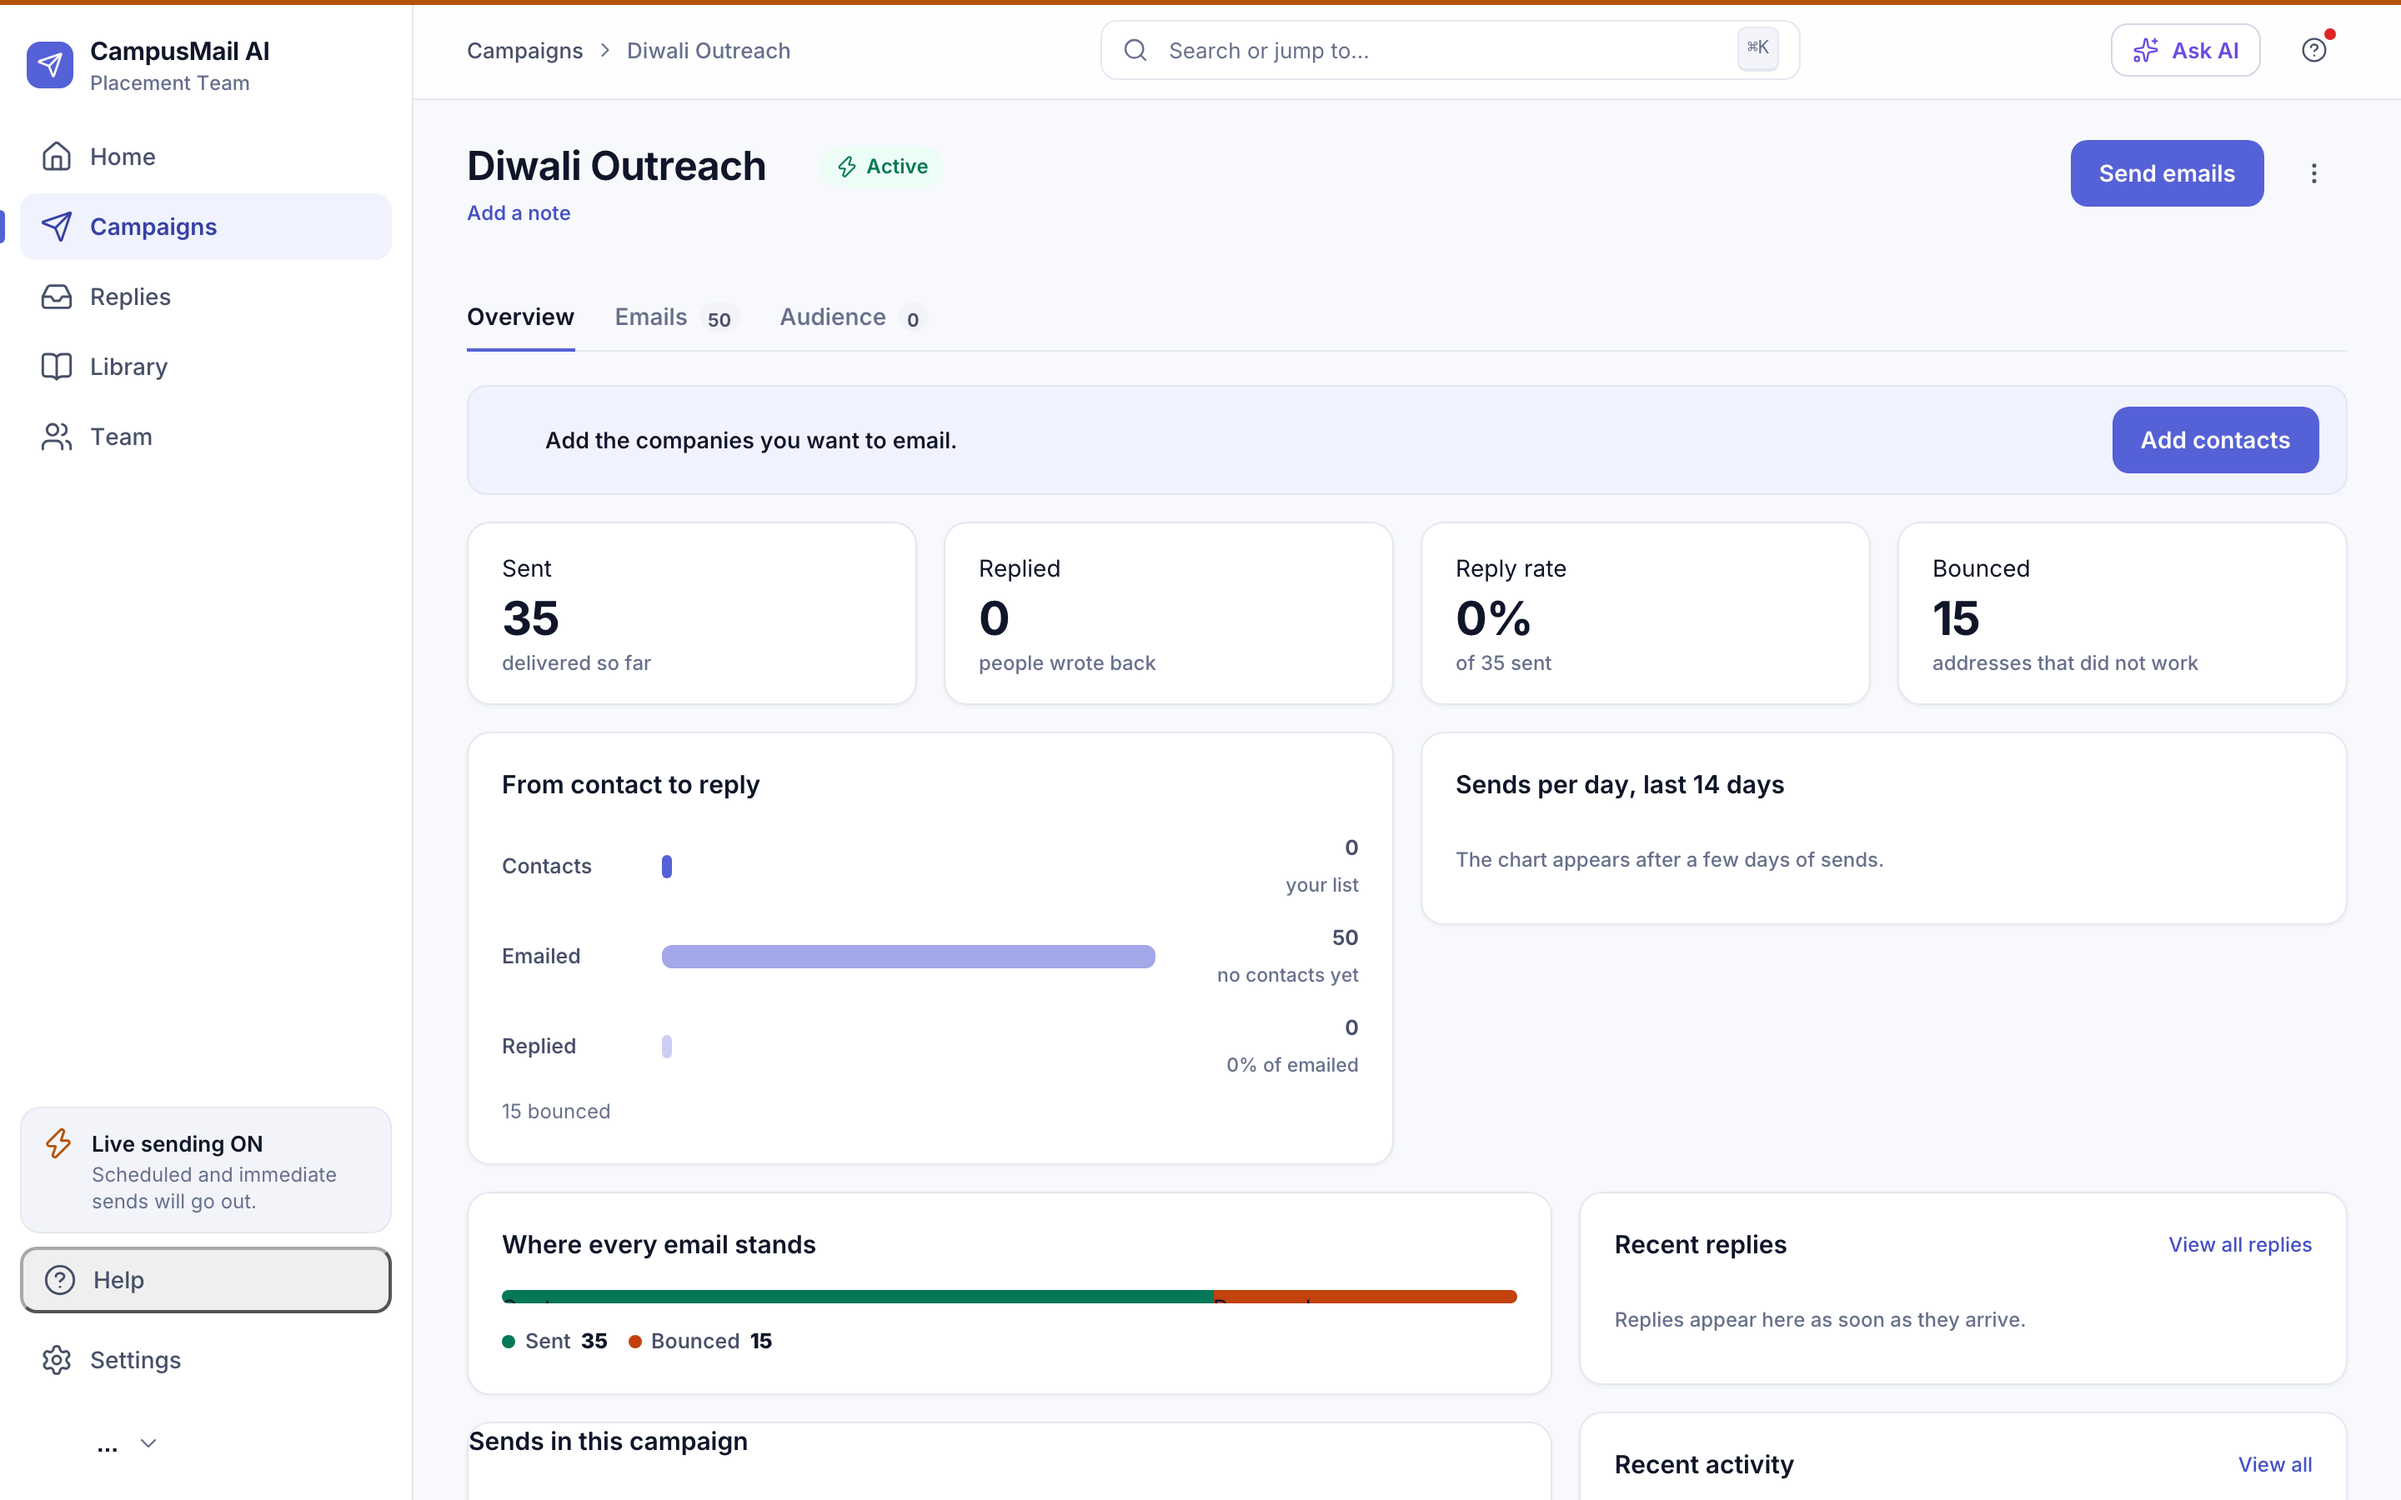
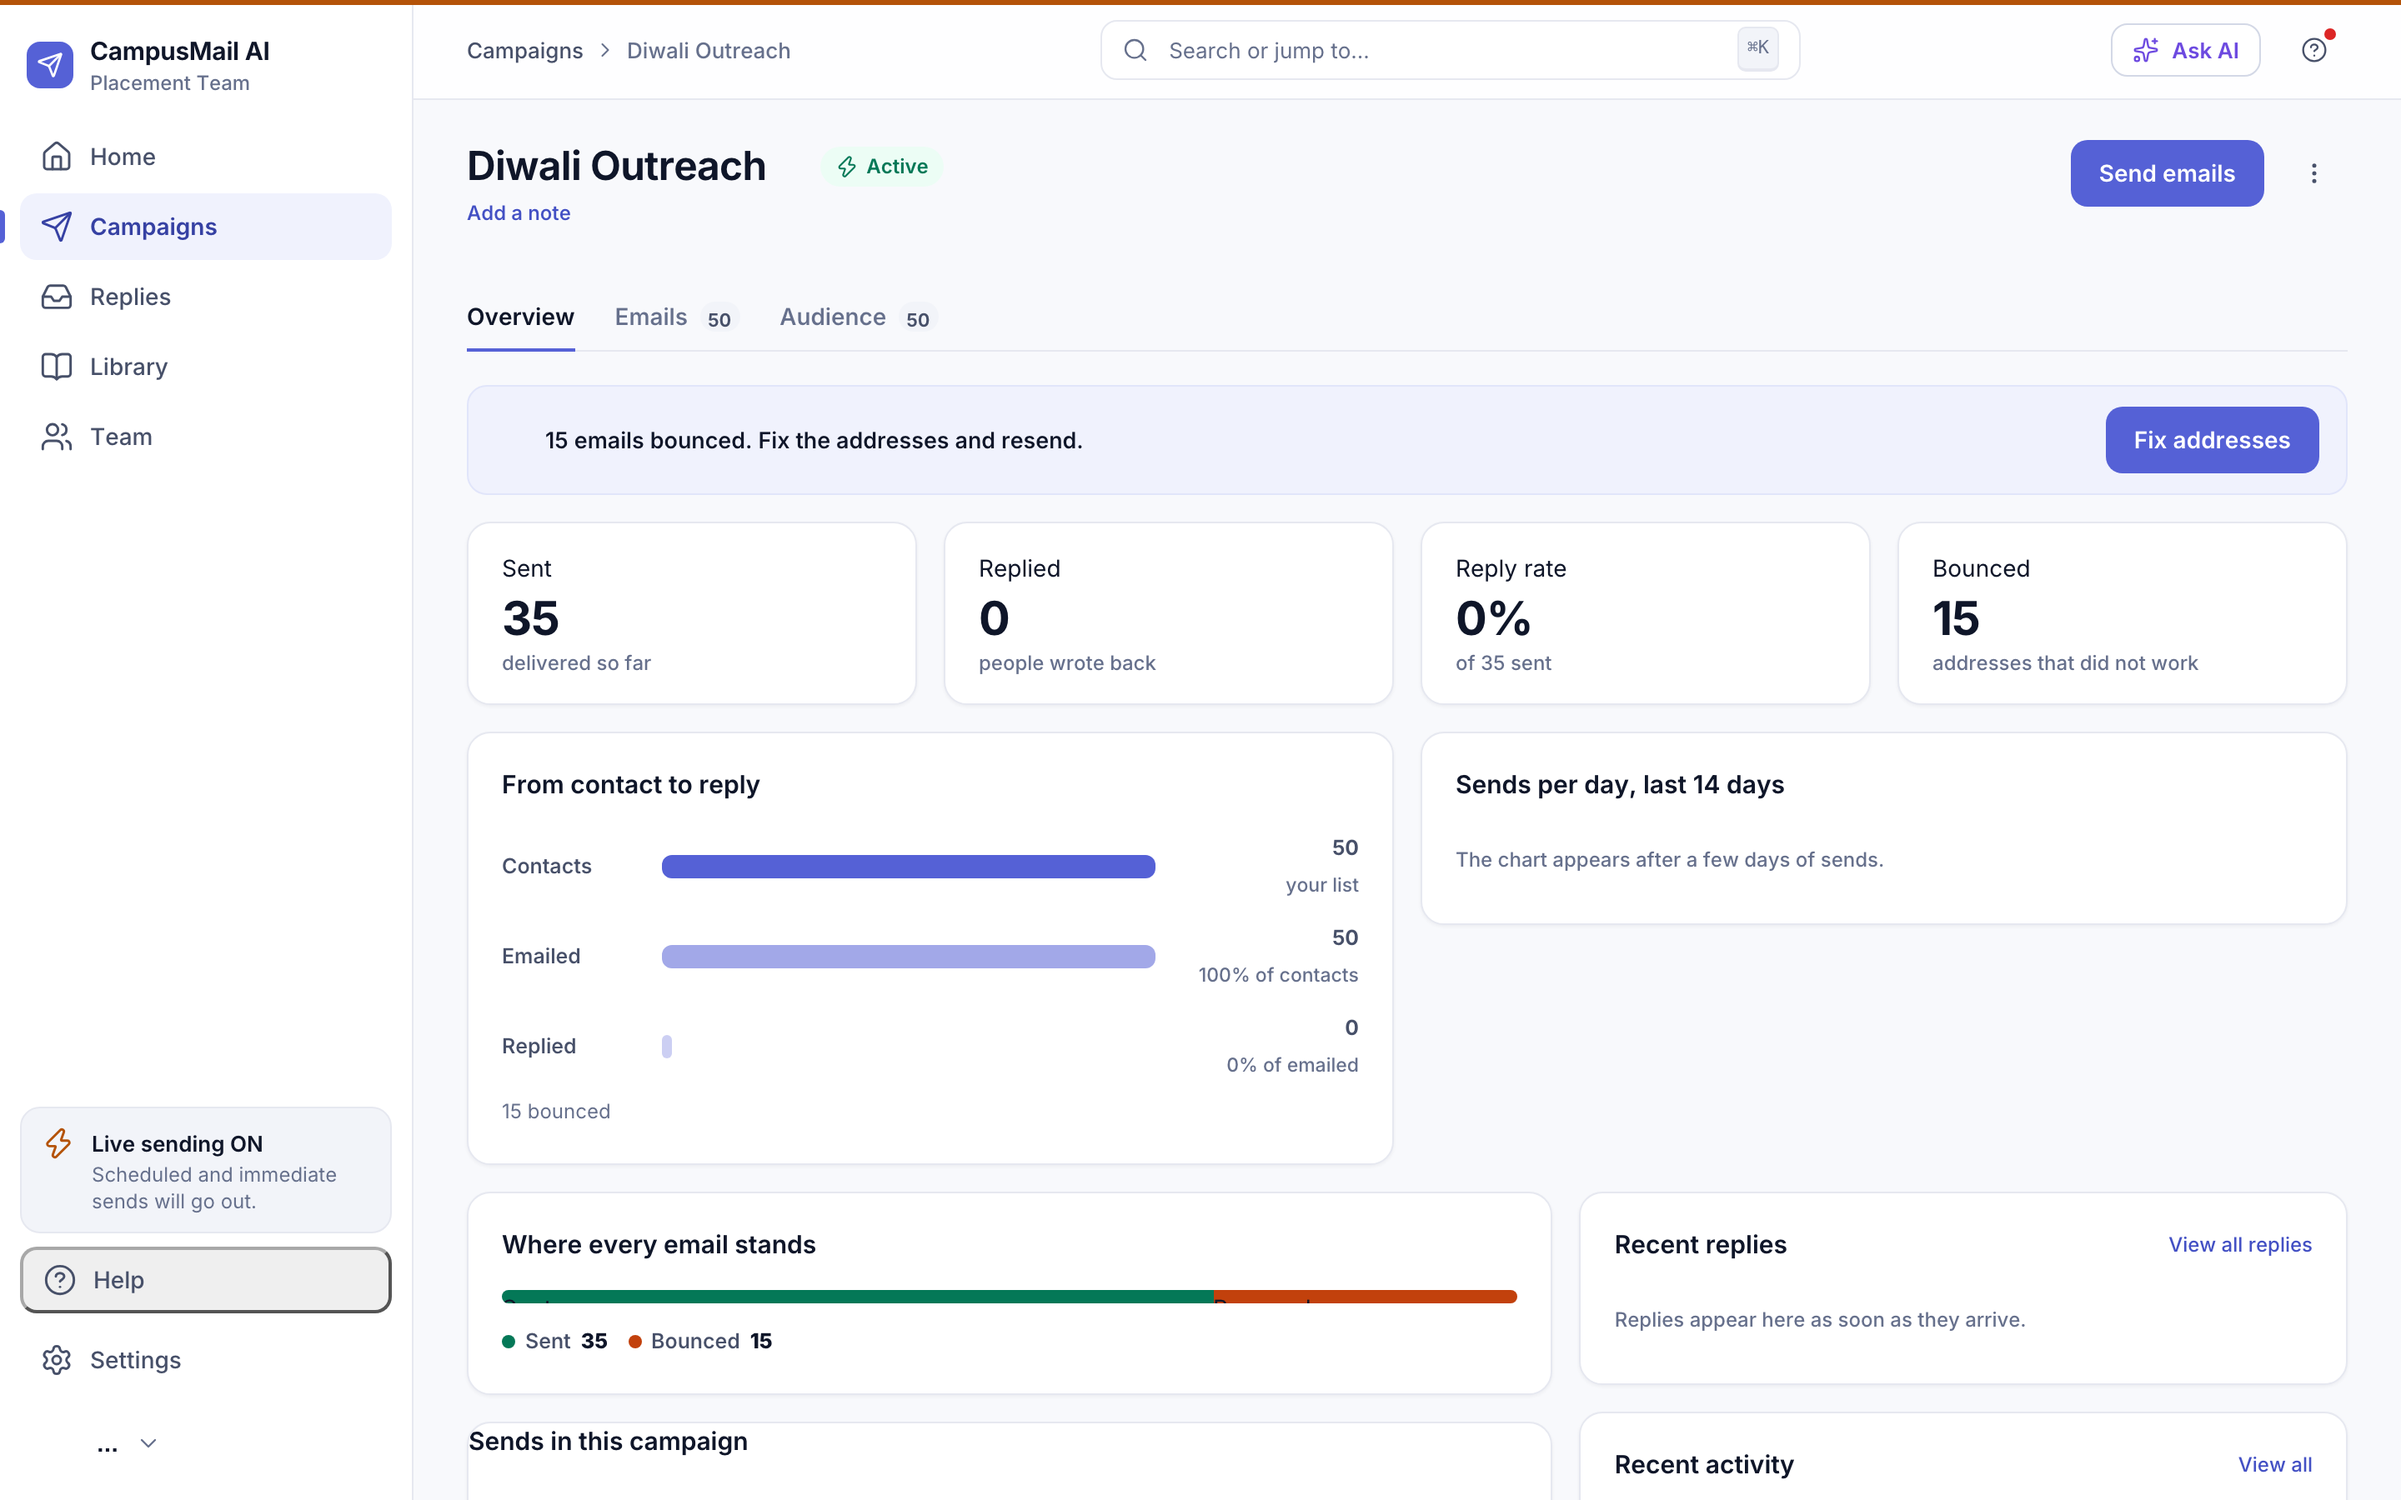
Hub: audience tab shows real recipients (count + table) when campaign has no linked lists
api_campaign_detail used the same sheet-join count as before with no
fallback, so a campaign that emailed people directly showed 'Audience 0'
while /api/home cards showed the true count. Add the same fallback
(distinct emailed contacts) and return the recipient rows; the audience
tab renders them with per-recipient status badges. Also refresh
screenshots for the updated hub and home.

diff --git a/static/js/pages/hub.js b/static/js/pages/hub.js
@@ -507,12 +507,34 @@ function renderAudience(panel) {
     { label: "Choose an existing list", icon: "library", action: chooseExisting },
   ]));
 
+  const recipients = data.recipients || [];
+  const showRecipients = !sheets.length && recipients.length > 0;
   const head = el("div", { class: "camp-toolbar" },
-    el("div", { class: "camp-note" }, "The contact lists in this campaign. Drop a CSV or Excel file anywhere here to upload."),
+    el("div", { class: "camp-note" }, showRecipients
+      ? "Everyone this campaign reached, with their current status."
+      : "The contact lists in this campaign. Drop a CSV or Excel file anywhere here to upload."),
     el("div", { class: "push" }, addBtn));
   panel.append(head);
 
-  if (!sheets.length) {
+  if (showRecipients) {
+    const table = el("table", { class: "table", "aria-label": "Recipients" },
+      el("thead", {}, el("tr", {},
+        el("th", {}, "Company"), el("th", {}, "HR name"), el("th", {}, "HR email"), el("th", {}, "Status"))),
+      el("tbody", {}));
+    for (const rc of recipients) {
+      const badge = rc.replied
+        ? el("span", { class: "badge replied" }, "Replied")
+        : rc.bounced
+          ? el("span", { class: "badge bounced" }, "Bounced")
+          : el("span", { class: "badge sent" }, "Sent");
+      table.tBodies[0].append(el("tr", {},
+        el("td", {}, rc.company || "—"),
+        el("td", {}, rc.hr_name || "—"),
+        el("td", {}, rc.hr_email || "—"),
+        el("td", {}, badge)));
+    }
+    panel.append(el("div", { class: "table-wrap" }, table));
+  } else if (!sheets.length) {
     panel.append(emptyState({
       icon: "contacts",
       title: "No contact lists yet.",

diff --git a/app.py b/app.py
@@ -1696,9 +1696,28 @@ def api_campaign_detail(cid):
     sheets = [dict(r) for r in c.execute("SELECT * FROM sheets WHERE campaign_id=? ORDER BY id DESC", (cid,)).fetchall()]
     for sh in sheets:
         sh["headers"] = json.loads(sh["headers"] or "[]")
+    n_sheets = c.execute("SELECT COUNT(*) n FROM sheets WHERE campaign_id=?", (cid,)).fetchone()["n"]
     n_contacts = c.execute(
         "SELECT COUNT(*) n FROM contacts ct JOIN sheets s ON ct.sheet_id=s.id WHERE s.campaign_id=?",
         (cid,)).fetchone()["n"]
+    recipients = []
+    if n_sheets == 0:
+        # no linked lists: audience = the distinct people actually emailed in
+        # this campaign (same fallback /api/home uses for its campaign cards)
+        n_contacts = c.execute(
+            "SELECT COUNT(DISTINCT e.contact_id) n FROM emails e JOIN batches b ON e.batch_id=b.id "
+            "WHERE b.campaign_id=? AND e.status != 'deleted' AND e.contact_id > 0",
+            (cid,)).fetchone()["n"]
+        recipients = [dict(r) for r in c.execute("""
+            SELECT co.id AS contact_id, co.company, co.hr_name, co.hr_email,
+                   MAX(CASE WHEN e.bounced_at IS NOT NULL AND e.bounced_at != '' THEN 1 ELSE 0 END) AS bounced,
+                   MAX(CASE WHEN e.replied_at IS NOT NULL AND e.replied_at != '' THEN 1 ELSE 0 END) AS replied
+            FROM emails e JOIN batches b ON e.batch_id = b.id
+            LEFT JOIN contacts co ON co.id = e.contact_id
+            WHERE b.campaign_id = ? AND e.status != 'deleted' AND e.contact_id > 0
+            GROUP BY co.id
+            ORDER BY COALESCE(NULLIF(co.hr_name, ''), co.company, co.hr_email)
+        """, (cid,)).fetchall()]
     # UI redesign (hub overview): derived status summary, sends per day,
     # recent replies. Additive fields only.
     srow = c.execute("""
@@ -1736,7 +1755,7 @@ def api_campaign_detail(cid):
         ORDER BY e.replied_at DESC LIMIT 5""", (cid,)).fetchall()]
     c.close()
     return jsonify({"ok": True, "campaign": dict(cam), "status_counts": st,
-                    "batches": batches, "sheets": sheets, "n_contacts": n_contacts,
+                    "batches": batches, "sheets": sheets, "n_contacts": n_contacts, "recipients": recipients,
                     "summary": summary, "per_day": per_day, "recent_replies": recent_replies,
                     "n_emailed": n_emailed})
 
